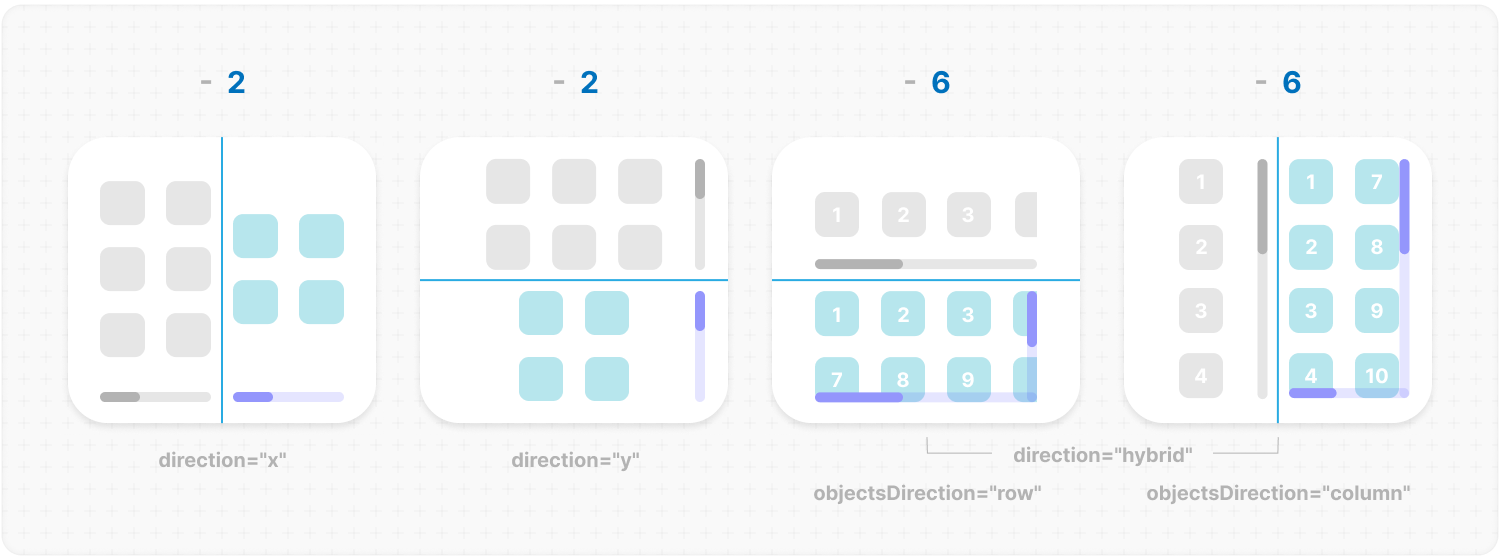
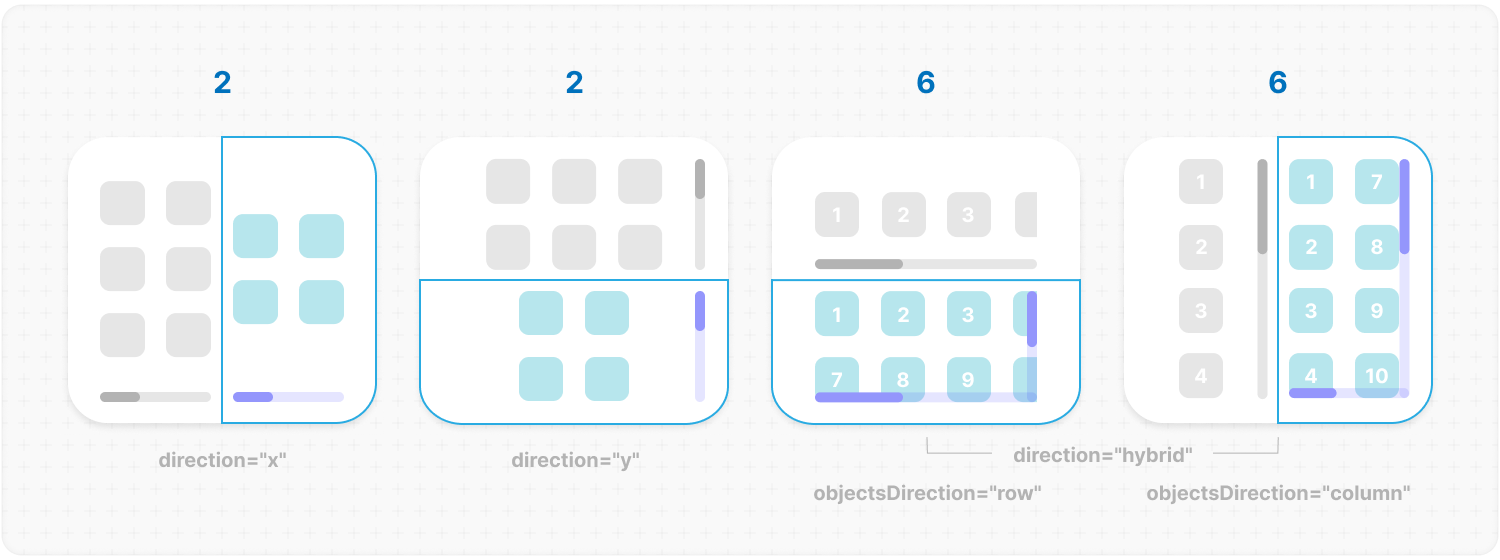
docs: what a mode does is written where the mode is
Объяснение "focus" на три абзаца лежало в keys после свёрнутых параметров —
то есть отдельно от значения, о котором говорит. Уехало внутрь mode, вместе
с заметками про оси и про virtual. В самом keys осталось то, что про клавиши
целиком: где они работают и где библиотека их не трогает.

Проверил по коду всё, что связано с игнорируемыми элементами, — совпадает.
Дописал только про колесо: над полем ввода оно крутит, но фокус не отбирает.

Плюс перерисованный баннер crossCount и переименованная группа плейграунда,
что бы совпадала с README.

diff --git a/playground/src/App.tsx b/playground/src/App.tsx
@@ -732,7 +732,11 @@ function buildSnippet(settings: Settings, scrollCommand: ScrollCommand) {
     ],
     ["autoScrollOnDrag", settings.autoScrollOnDrag || undefined, "boolean"],
     ["stickToEnd", settings.stickToEnd || undefined, "boolean"],
-    ["duration", scrollCommand.duration === 200 ? undefined : scrollCommand.duration, "value"],
+    [
+      "duration",
+      scrollCommand.duration === 200 ? undefined : scrollCommand.duration,
+      "value",
+    ],
     [
       "onScrollPosition",
       settings.enableOnScrollValue
@@ -898,8 +902,9 @@ function App() {
   const [scrollLeft, setScrollLeft] = React.useState(0);
   const [scrollTop, setScrollTop] = React.useState(0);
   const [isScrolling, setIsScrolling] = React.useState(false);
-  const [lastNavigate, setLastNavigate] =
-    React.useState<NavigateEvent | null>(null);
+  const [lastNavigate, setLastNavigate] = React.useState<NavigateEvent | null>(
+    null,
+  );
   const [renderedKeys, setRenderedKeys] = React.useState<string[]>([]);
   const [resizeRect, setResizeRect] = React.useState({ width: 0, height: 0 });
   const [isProbeVisible, setIsProbeVisible] = React.useState(false);
@@ -934,7 +939,9 @@ function App() {
     return [settings.width, settings.height];
   }, [settings.height, settings.sizeMode, settings.squareSize, settings.width]);
 
-  const objectsSize = React.useMemo<NonNullable<MorphScrollProps["objects"]>["size"]>(() => {
+  const objectsSize = React.useMemo<
+    NonNullable<MorphScrollProps["objects"]>["size"]
+  >(() => {
     if (settings.objectsSizeMode === "default") return undefined;
     if (settings.objectsSizeMode === "number") return settings.objectWidth;
     if (settings.objectsSizeMode === "pair")
@@ -1011,7 +1018,9 @@ function App() {
     settings.trackVisibility,
   ]);
 
-  const emptyObjects = React.useMemo<NonNullable<MorphScrollProps["objects"]>["empty"]>(() => {
+  const emptyObjects = React.useMemo<
+    NonNullable<MorphScrollProps["objects"]>["empty"]
+  >(() => {
     if (settings.emptyMode === "off") return undefined;
     if (settings.emptyMode === "clear") return "clear";
     if (settings.emptyMode === "fallback")
@@ -1038,7 +1047,9 @@ function App() {
 
       fallback: <div className="cell-fallback">{settings.fallbackText}</div>,
 
-      onScrollingChange: settings.enableIsScrolling ? setIsScrolling : undefined,
+      onScrollingChange: settings.enableIsScrolling
+        ? setIsScrolling
+        : undefined,
       objects: {
         size: objectsSize,
         gap:
@@ -1200,11 +1211,7 @@ function App() {
           ))}
         </div>
 
-        <ControlGroup
-          defaultOpen
-          hint="className · children"
-          title="general"
-        >
+        <ControlGroup defaultOpen hint="className · children" title="general">
           <Field label="className">
             <input
               onChange={(event) => update("className", event.target.value)}
@@ -1356,7 +1363,6 @@ function App() {
               device connects; the reason reaches <code>onNavigate</code> as
               given
             </p>
-
           </SubGroup>
 
           <SubGroup
@@ -1377,16 +1383,13 @@ function App() {
             </p>
             <p className="sub-note">
               browsers hide a pad until it sends something: press any button
-              once. What it sends — every axis by index, and the buttons held
-              — shows in the <code>gamepad</code> meter under the surface.
+              once. What it sends — every axis by index, and the buttons held —
+              shows in the <code>gamepad</code> meter under the surface.
             </p>
           </SubGroup>
         </ControlGroup>
 
-        <ControlGroup
-          hint="size · objects · wrapper"
-          title="size"
-        >
+        <ControlGroup hint="size · objects · wrapper" title="layout">
           <SelectField
             label="size"
             onChange={(value) => update("sizeMode", value)}
@@ -1637,8 +1640,8 @@ function App() {
             <p className="sub-note">
               the arrows work while the scroll has focus — click it, or Tab to
               it. <code>pan</code> and <code>step</code> take only the keys of
-              the scrolling axis; <code>focus</code> walks the objects and
-              takes all four
+              the scrolling axis; <code>focus</code> walks the objects and takes
+              all four
             </p>
           </SubGroup>
 
@@ -1861,9 +1864,7 @@ function App() {
           />
           <ToggleField
             label="onRenderedKeysChange"
-            onChange={(value) =>
-              update("enableOnRenderedKeysChange", value)
-            }
+            onChange={(value) => update("enableOnRenderedKeysChange", value)}
             value={settings.enableOnRenderedKeysChange}
           />
         </ControlGroup>
@@ -1951,9 +1952,7 @@ function App() {
           </div>
           <div className="keys-meter">
             <span>gamepad</span>
-            <b>
-              {!settings.gamepad ? "off" : !pad ? "waiting" : "connected"}
-            </b>
+            <b>{!settings.gamepad ? "off" : !pad ? "waiting" : "connected"}</b>
             {pad && (
               <code>
                 {[

diff --git a/README.md b/README.md
@@ -88,8 +88,7 @@ allows you to add additional classes to the component.</em><br />
 <b>Description:</b><em><br />
 allows to add custom content to the component.<br />
 Make sure to provide unique keys for each list item, as per React's rules. The <code>MorphScroll</code> component ensures that the cells it generates will use the same keys as your list items, allowing it to render the correct cells for the current list.<br />
-Additionally, <code>MorphScroll</code> handles a passed <b>null</b> value the same way as <b>undefined</b>, rendering nothing in both cases.<br />
-</em><br />
+Additionally, <code>MorphScroll</code> handles a passed <b>null</b> value the same way as <b>undefined</b>, rendering nothing in both cases.</em><br />
 <br />
 <b>Example:</b>
 
@@ -123,8 +122,7 @@ the default value and represents a standard scrollbar.<br />
 displays distinct elements indicating the number of full scroll steps within the list.<br />
 <br />
 <code><b>sliderMenu</b></code>:<br />
-like <code>slider</code>, but the <code>bar</code> is a menu, and you can provide custom buttons as an array in <code>bar</code>.<br />
-</em><br />
+like <code>slider</code>, but the <code>bar</code> is a menu, and you can provide custom buttons as an array in <code>bar</code>.</em><br />
 <br />
 <b>Example:</b>
 
@@ -456,8 +454,7 @@ enables automatic scrolling when dragging elements near the edges of the contain
 Scrolling is triggered for elements using the native <code>draggable="true"</code> attribute, or custom drag implementations marked with <code>ms-custom-drag</code>.<br />
 <br />
 ✦ Note:<br />
-while auto-scrolling is active, the container receives the <code>ms-under-drag</code> attribute with directional values (<code>left</code>, <code>top</code>, etc.) depending on the active edge. It can be used for styling.<br />
-</em><br />
+while auto-scrolling is active, the container receives the <code>ms-under-drag</code> attribute with directional values (<code>left</code>, <code>top</code>, etc.) depending on the active edge. It can be used for styling.</em><br />
 <br />
 <b>Example:</b>
 
@@ -624,8 +621,7 @@ gap: 10; // or [20, 10]
 ```
 
 <b>Description:</b><em><br />
-allows you to set spacing in pixels between list items for rows and columns.<br />
-</em><br />
+allows you to set spacing in pixels between list items for rows and columns.</em><br />
 <br />
 <b>Example:</b>
 
@@ -652,8 +648,7 @@ align: "center"; // or "start" | "end"
 "start"<br />
 <br />
 <b>Description:</b><em><br />
-where a line that did not fill up sits — the last row of a grid, or the only row of a short list.<br />
-</em><br />
+where a line that did not fill up sits — the last row of a grid, or the only row of a short list.</em><br />
 <br />
 <b>Example:</b>
 
@@ -927,6 +922,9 @@ wheel: true;
 the wheel over the content moves the scroll.<br />
 <br />
 Both settings below are for <code>direction="hybrid"</code>, where one wheel has to serve two axes.<br />
+<br />
+✦ Note:<br />
+the wheel takes focus for the keys to work on, but never from a field being typed in — over an <code>input</code>, <code>textarea</code>, <code>select</code> or anything <code>contenteditable</code> it scrolls and leaves the caret where it is.<br />
 </em><br />
 
 <details><summary><code><b>changeDirection</b></code></summary><br /><ul><div>
@@ -991,6 +989,9 @@ keys: true;
 
 <b>Description:</b><em><br />
 the arrow keys move the scroll while it has focus — clicking it is enough, the viewport is a tab stop.<br />
+<br />
+✦ Note:<br />
+inside an <code>input</code>, <code>textarea</code>, <code>select</code> or anything <code>contenteditable</code> the arrows belong to the text, and the scroll leaves them alone.<br />
 </em><br />
 
 <details><summary><code><b>mode</b></code></summary><br /><ul><div>
@@ -1004,7 +1005,17 @@ mode: "focus"; // or "step" | "pan"
 <b>"step"</b> in the slider modes, <b>"pan"</b> in <code>mode="scroll"</code><br />
 <br />
 <b>Description:</b><em><br />
-<b>"step"</b> turns a page, the same move the arrow buttons make and reported through <code>onNavigate</code> as <b>"keys"</b>; <b>"pan"</b> nudges the content along; <b>"focus"</b> walks the objects.<br />
+<b>"step"</b> turns a page, the same move the arrow buttons make and reported through <code>onNavigate</code> as <b>"keys"</b>; <b>"pan"</b> nudges the content along by <code>step</code> pixels; <b>"focus"</b> walks the objects.<br />
+<br />
+<b>"focus"</b> is Tab, but aimed: an arrow moves focus to the neighbouring object and the scroll follows it, exactly far enough to bring it into view. The neighbour is picked by geometry, so a grid walks along its row and then drops to the next one, and the order in the DOM does not matter.<br />
+The object stops an <code>objects.gap</code> short of the edge rather than against it, and where the objects run out it is <code>wrapper.margin</code> that opens instead — the scroll leaves whatever space actually exists in that place. That space comes out of the room the object leaves in the window, so an object as large as the window gets none of it and lands exactly on the edge: a gallery of full-size images steps page by page, with nothing sticking out.<br />
+Focus lands on the <code>.ms-object-box</code> itself, not on what it holds, so the highlight is the whole card and there is one thing to style: <code>.ms-object-box:focus</code>. The box is made focusable at that moment — give it a <code>tabIndex</code> of your own and the library leaves it alone. Where the focus went is reported by the DOM, through the <code>focus</code> events of your own items; the same move from any other device is <code>ref.moveFocus()</code>.<br />
+<br />
+✦ Note:<br />
+<ul>
+  <li>in <b>"pan"</b> and <b>"step"</b> only the keys of the scrolling axis are taken; the other two are left alone. <b>"focus"</b> takes all four — a vertical list can still be a grid.</li>
+  <li>with <code>render="virtual"</code> the arrows only reach what is mounted — widen <code>render.rootMargin</code> to mount further ahead.</li>
+</ul>
 </em><br />
 <b>Example:</b>
 
@@ -1034,28 +1045,13 @@ how far one press nudges in <b>"pan"</b>.<br />
 <b>Example:</b>
 
 ```tsx
-<MorphScroll
-  {...props}
-  progressTrigger={{ keys: { mode: "pan", step: 80 } }}
->
+<MorphScroll {...props} progressTrigger={{ keys: { mode: "pan", step: 80 } }}>
   {children}
 </MorphScroll>
 ```
 
 </div></ul></details>
 
-<br />
-<em><b>"focus"</b> is Tab, but aimed: an arrow moves focus to the neighbouring object and the scroll follows it, exactly far enough to bring it into view. The neighbour is picked by geometry, so a grid walks along its row and then drops to the next one, and the order in the DOM does not matter.<br />
-The object stops an <code>objects.gap</code> short of the edge rather than against it, and where the objects run out it is <code>wrapper.margin</code> that opens instead — the scroll leaves whatever space actually exists in that place. That space comes out of the room the object leaves in the window, so an object as large as the window gets none of it and lands exactly on the edge: a gallery of full-size images steps page by page, with nothing sticking out.<br />
-Focus lands on the <code>.ms-object-box</code> itself, not on what it holds, so the highlight is the whole card and there is one thing to style: <code>.ms-object-box:focus</code>. The box is made focusable at that moment — give it a <code>tabIndex</code> of your own and the library leaves it alone. Where the focus went is reported by the DOM, through the <code>focus</code> events of your own items; the same move from any other device is <code>ref.moveFocus()</code>.<br />
-<br />
-✦ Note:<br />
-<ul>
-  <li>in <b>"pan"</b> and <b>"step"</b> only the keys of the scrolling axis are taken; the other two are left alone. <b>"focus"</b> takes all four — a vertical list can still be a grid.</li>
-  <li>inside an <code>input</code>, <code>textarea</code>, <code>select</code> or anything <code>contenteditable</code> the arrows belong to the text, and the scroll does not touch them.</li>
-  <li>with <code>render="virtual"</code>, tabbing only reaches what is mounted — widen <code>render.rootMargin</code> to mount further ahead.</li>
-</ul>
-<br /></em>
 </div></ul></details>
 
 <br />
@@ -1101,6 +1097,7 @@ bar: <ScrollThumbComponent />; // or true | an array | an object
 <b>Description:</b><em><br />
 determines how the scroll progress is managed<br />
 <br />
+
 <ul>
   <li>When using <code>mode="scroll"</code>, you can provide a custom scroll element. If it's not ready yet, simply set <b>true</b> instead — this will fall back to the browser’s default scrollbar.</li><br />
   <li>When using <code>mode="slider"</code>, a <b>.ms-slider</b> element is automatically generated. It contains multiple <b>ms-slider-item</b> elements that visually represent the scroll progress. One of them will always have the <code>ms-active</code> class depending on the current position.</li><br />
@@ -1134,10 +1131,7 @@ what the bar is made of. An array feeds one node per slider element.<br />
 <b>Example:</b>
 
 ```tsx
-<MorphScroll
-  {...props}
-  progressTrigger={{ bar: <ScrollThumbComponent /> }}
->
+<MorphScroll {...props} progressTrigger={{ bar: <ScrollThumbComponent /> }}>
   {children}
 </MorphScroll>
 ```
@@ -1277,7 +1271,6 @@ the thumb never shrinks below this.<br />
 
 </div></ul></details>
 
-<br />
 <br />
 ✦ Note:<br />
 with <code>showOnHover</code> the library sets <code>--ms-bar-visibility</code> (<b>1</b> active, <b>0</b> idle) and adds <b>.ms-hover</b> / <b>.ms-leave</b>, but styles nothing. It lands on whichever element the mode renders — <b>.ms-bar</b> in <code>mode="scroll"</code>, <b>.ms-slider</b> in the slider modes — so style both if you use both. The bar stays visible until you use the variable:<br />
@@ -1624,8 +1617,7 @@ wraps every cell in a React <code>Suspense</code> boundary, so a child that susp
   <li><code>suspending</code> decides <b>what happens while a mounted child is not ready</b>. That is React's decision, and MorphScroll only provides the boundary.</li>
 </ul>
 
-They are unrelated and combine freely — <code>render="virtual"</code> with <code>suspending</code> means only the visible cards are mounted, and each of those shows the fallback until its own data arrives. The one thing they share is <code>fallback</code>, which both use as the placeholder.<br />
-</em><br />
+They are unrelated and combine freely — <code>render="virtual"</code> with <code>suspending</code> means only the visible cards are mounted, and each of those shows the fallback until its own data arrives. The one thing they share is <code>fallback</code>, which both use as the placeholder.</em><br />
 <br />
 <b>Example:</b>
 
@@ -1777,8 +1769,7 @@ accepts a callback function that receives the keys of all currently rendered ele
 
 <details><summary><b><code>className</code></b></summary><br /><ul><div>
 <b>Description:</b><em><br />
-allows to add additional classes to the component.<br />
-</em><br />
+allows to add additional classes to the component.</em><br />
 <br />
 <b>Example:</b>
 
@@ -1792,8 +1783,7 @@ allows to add additional classes to the component.<br />
 
 <details><summary><b><code>children</code></b></summary><br /><ul><div>
 <b>Description:</b><em><br />
-allows to add custom content to the component.<br />
-</em><br />
+allows to add custom content to the component.</em><br />
 <br />
 <b>Example:</b>
 
@@ -1807,8 +1797,7 @@ allows to add custom content to the component.<br />
 
 <details><summary><b><code>style</code></b></summary><br /><ul><div>
 <b>Description:</b><em><br />
-allows to add custom inline styles.<br />
-</em><br />
+allows to add custom inline styles.</em><br />
 <br />
 <b>Example:</b>
 
@@ -1858,8 +1847,7 @@ Be cautious when overriding styles via the <code>style</code> prop, as it may in
 <details><summary><b><code>onResize</code></b></summary><br /><ul><div>
 <b>Description:</b><em><br />
 callback function that is triggered whenever the observed element's dimensions change.<br />
-The function receives an object of type <b>Partial<DOMRectReadOnly></b> that containing updated size properties.<br />
-</em><br />
+The function receives an object of type <b>Partial<DOMRectReadOnly></b> that containing updated size properties.</em><br />
 <br />
 <b>Example:</b>
 
@@ -1895,8 +1883,7 @@ The function receives an object of type <b>Partial<DOMRectReadOnly></b> that con
 
 <details><summary><b><code>className</code></b></summary><br /><ul><div>
 <b>Description:</b><em><br />
-allows to add additional classes to the component.<br />
-</em><br />
+allows to add additional classes to the component.</em><br />
 <br />
 <b>Example:</b>
 
@@ -1910,8 +1897,7 @@ allows to add additional classes to the component.<br />
 
 <details><summary><b><code>children</code></b></summary><br /><ul><div>
 <b>Description:</b><em><br />
-allows to add custom content to the component.<br />
-</em><br />
+allows to add custom content to the component.</em><br />
 <br />
 <b>Example:</b>
 
@@ -1925,8 +1911,7 @@ allows to add custom content to the component.<br />
 
 <details><summary><b><code>style</code></b></summary><br /><ul><div>
 <b>Description:</b><em><br />
-allows to add custom inline styles.<br />
-</em><br />
+allows to add custom inline styles.</em><br />
 <br />
 <b>Example:</b>
 
@@ -1946,8 +1931,7 @@ null (browser window)<br />
 <br />
 <b>Description:</b><em><br />
 specifies the element that serves as the bounding box for the intersection observation. 
-If provided, it must be an ancestor of the observed element.<br />
-</em><br />
+If provided, it must be an ancestor of the observed element.</em><br />
 <br />
 <b>Example:</b>
 
@@ -1969,8 +1953,7 @@ rootMargin: 10; // or [x, y] | [t, r, b, l]
 ```
 
 <b>Description:</b><em><br />
-defines an offset around the root element, expanding or shrinking the observed area.<br />
-</em><br />
+defines an offset around the root element, expanding or shrinking the observed area.</em><br />
 <br />
 <b>Example:</b>
 
